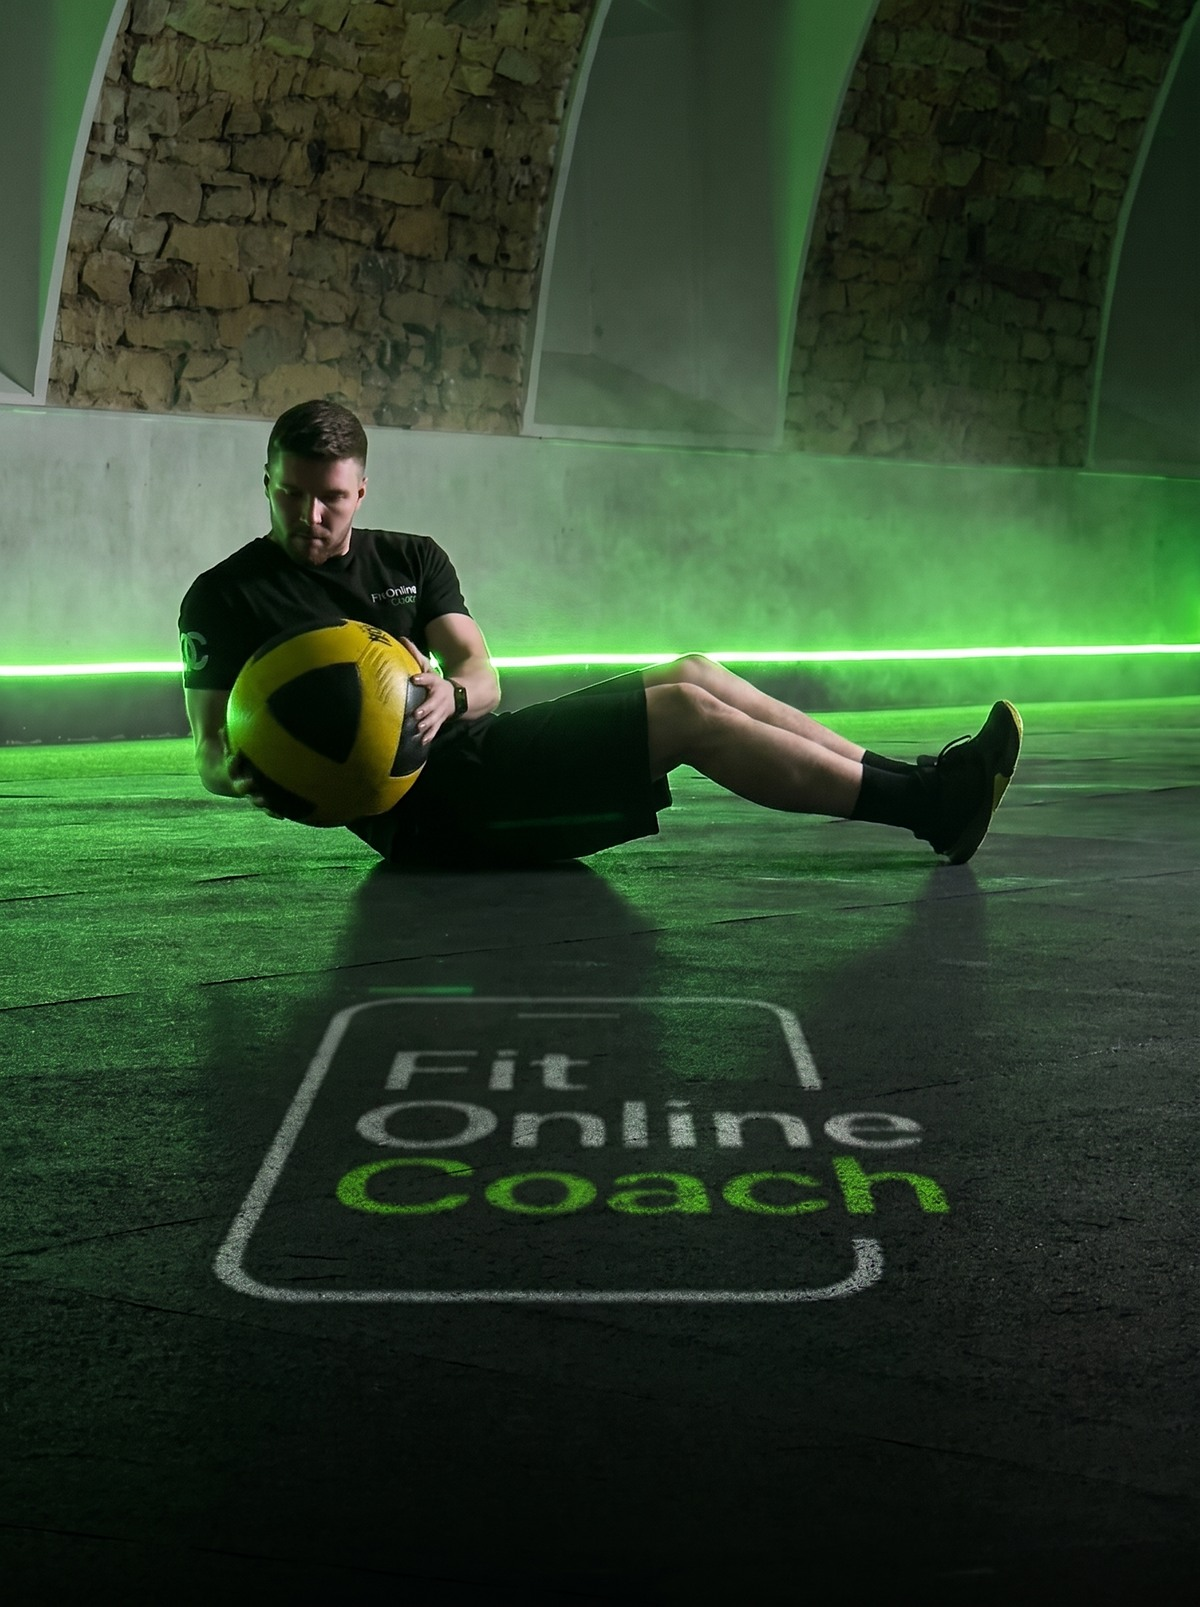
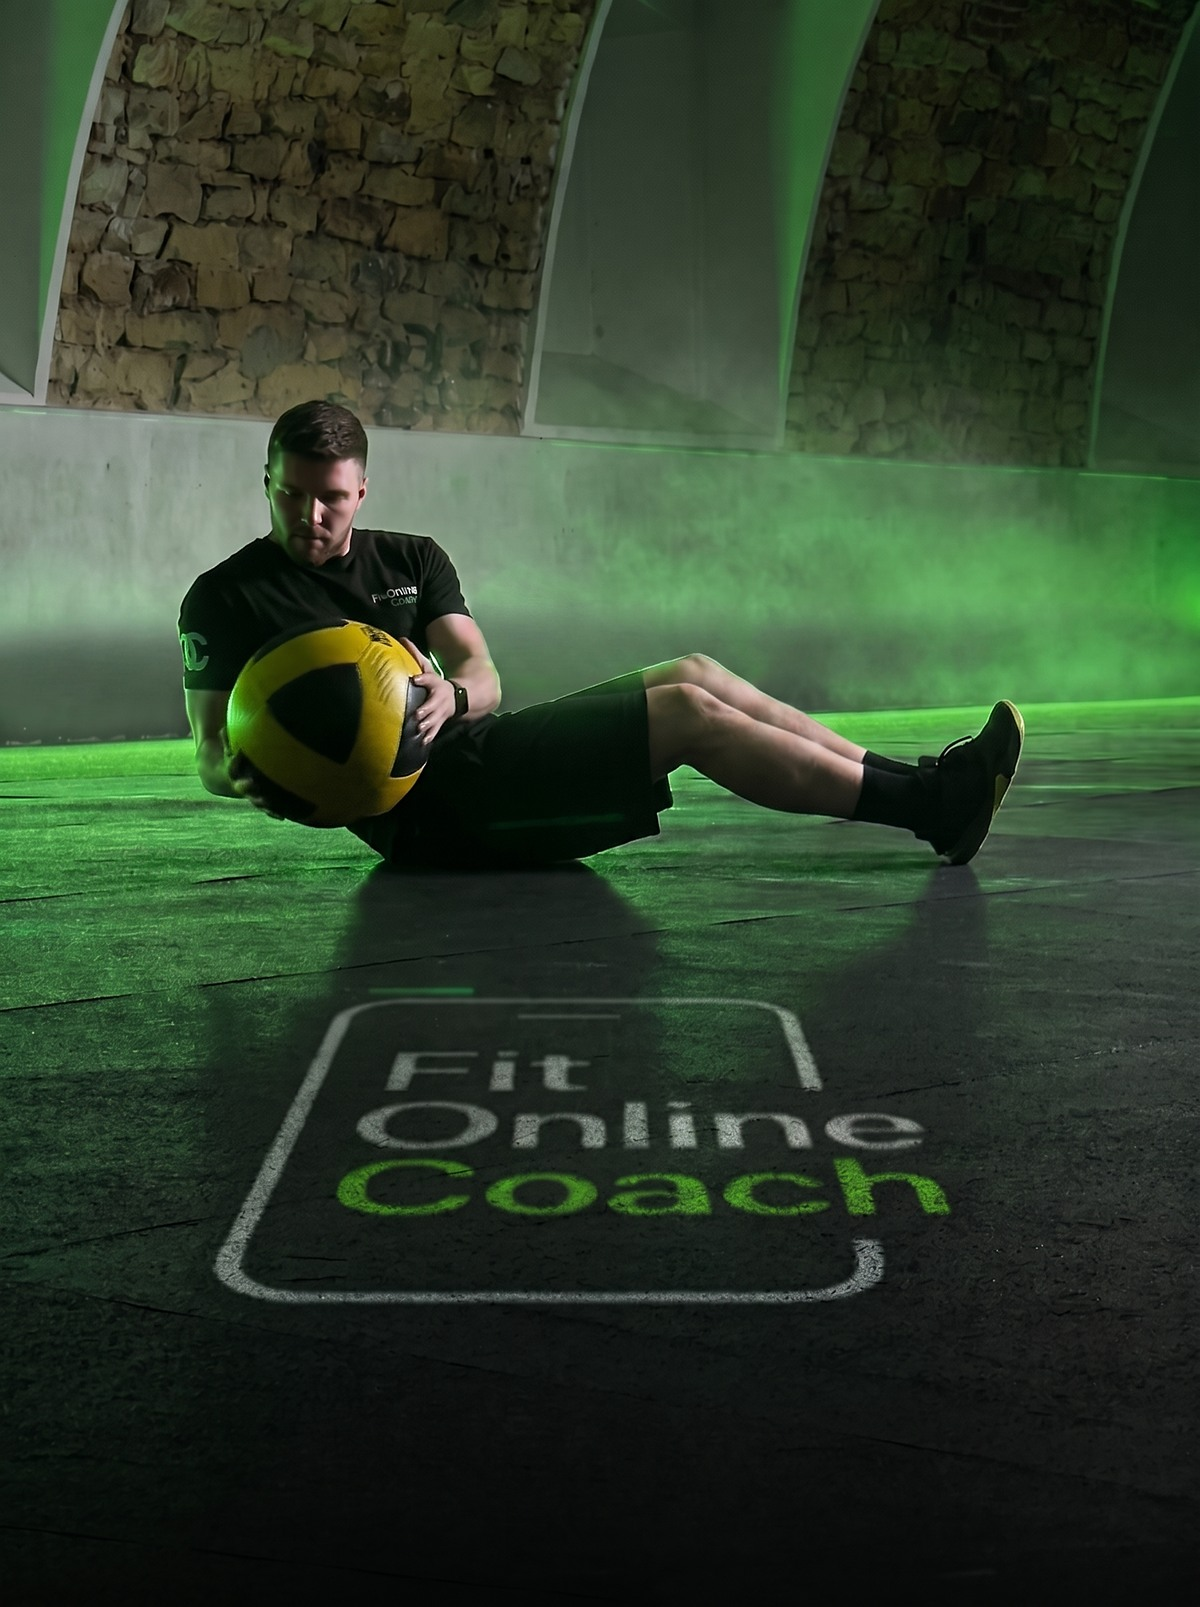
Prawdziwa hala FOC w tlach strony + karta planu bez neonu
- assets/plan_poczatek_karta.jpg: twist w doswietleniu AI, bez listew LED (wybor Tomka).
- assets/tlo_zero_sciemy.jpg zastepuje dust_beam.jpg pod haslem "Zero sciemy. Sam konkret."
  (skrzynie plyo na pierwszym planie, hala w glebi; zdjecie Tomka z hali, doswietlone AI).
- assets/tlo_darmowe_wideo.jpg zastepuje banner_gym.jpg pod sekcja darmowych poradnikow
  (szerokie ujecie hali; grafika AI z obcej silowni i hantlami znika).
- Zmiana tylko w dwoch regulach CSS (.divider .bg.wczytane, .yt .bg.wczytane) + plik karty.
  Stare pliki dust_beam.jpg i banner_gym.jpg zostaja w repo, nieuzywane.
- Zolta klatka w hali przebarwiona na limonke marki.

diff --git a/index.html b/index.html
@@ -802,7 +802,7 @@
      Adres obrazka siedzi więc w regule `.wczytane`, dokładanej przez obserwatora.
      Pod spodem ciemna barwa marki, żeby przed wczytaniem nie było jasnej dziury. */
   .divider .bg{position:absolute;inset:-18% 0;background:var(--graphite) center/cover no-repeat;will-change:transform}
-  .divider .bg.wczytane{background-image:url('assets/dust_beam.jpg')}
+  .divider .bg.wczytane{background-image:url('assets/tlo_zero_sciemy.jpg')}
   .divider .bgv{position:absolute;top:-18%;left:0;width:100%;height:136%;object-fit:cover;will-change:transform}
   .divider::before{content:"";position:absolute;inset:0;background:rgba(7,9,8,.45);z-index:1}
   .divider h2{position:relative;z-index:2;font-size:clamp(2rem,6vw,4.6rem);font-weight:900;color:#fff;
@@ -1047,7 +1047,7 @@
   /* ---------- YT banner ---------- */
   .yt{position:relative;overflow:hidden;padding:84px 0;text-align:center}
   .yt .bg{position:absolute;inset:-15% 0;background:var(--graphite) center/cover no-repeat;will-change:transform}
-  .yt .bg.wczytane{background-image:url('assets/banner_gym.jpg')}
+  .yt .bg.wczytane{background-image:url('assets/tlo_darmowe_wideo.jpg')}
   .yt::before{content:"";position:absolute;inset:0;background:linear-gradient(180deg,var(--black) 0%,rgba(7,9,8,.55) 30%,rgba(7,9,8,.55) 70%,var(--black) 100%);z-index:1}
   .yt .wrap{position:relative;z-index:2}
   .yt h2{font-size:clamp(2rem,4.6vw,3.6rem);color:#fff;margin-bottom:18px}
